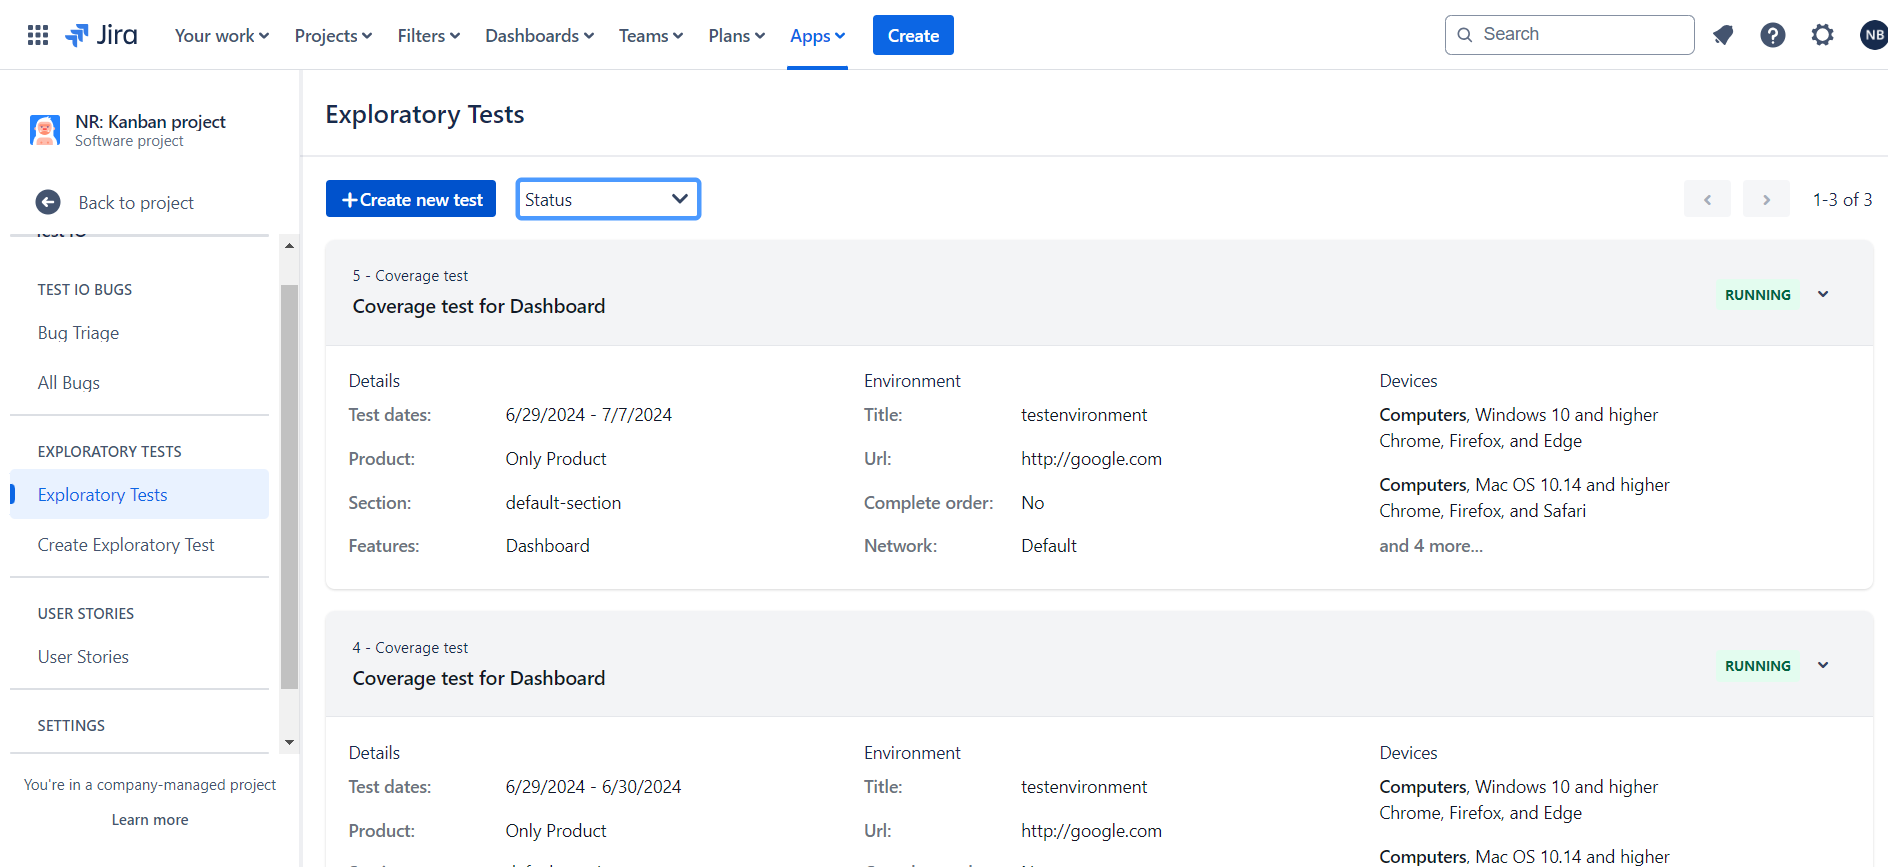
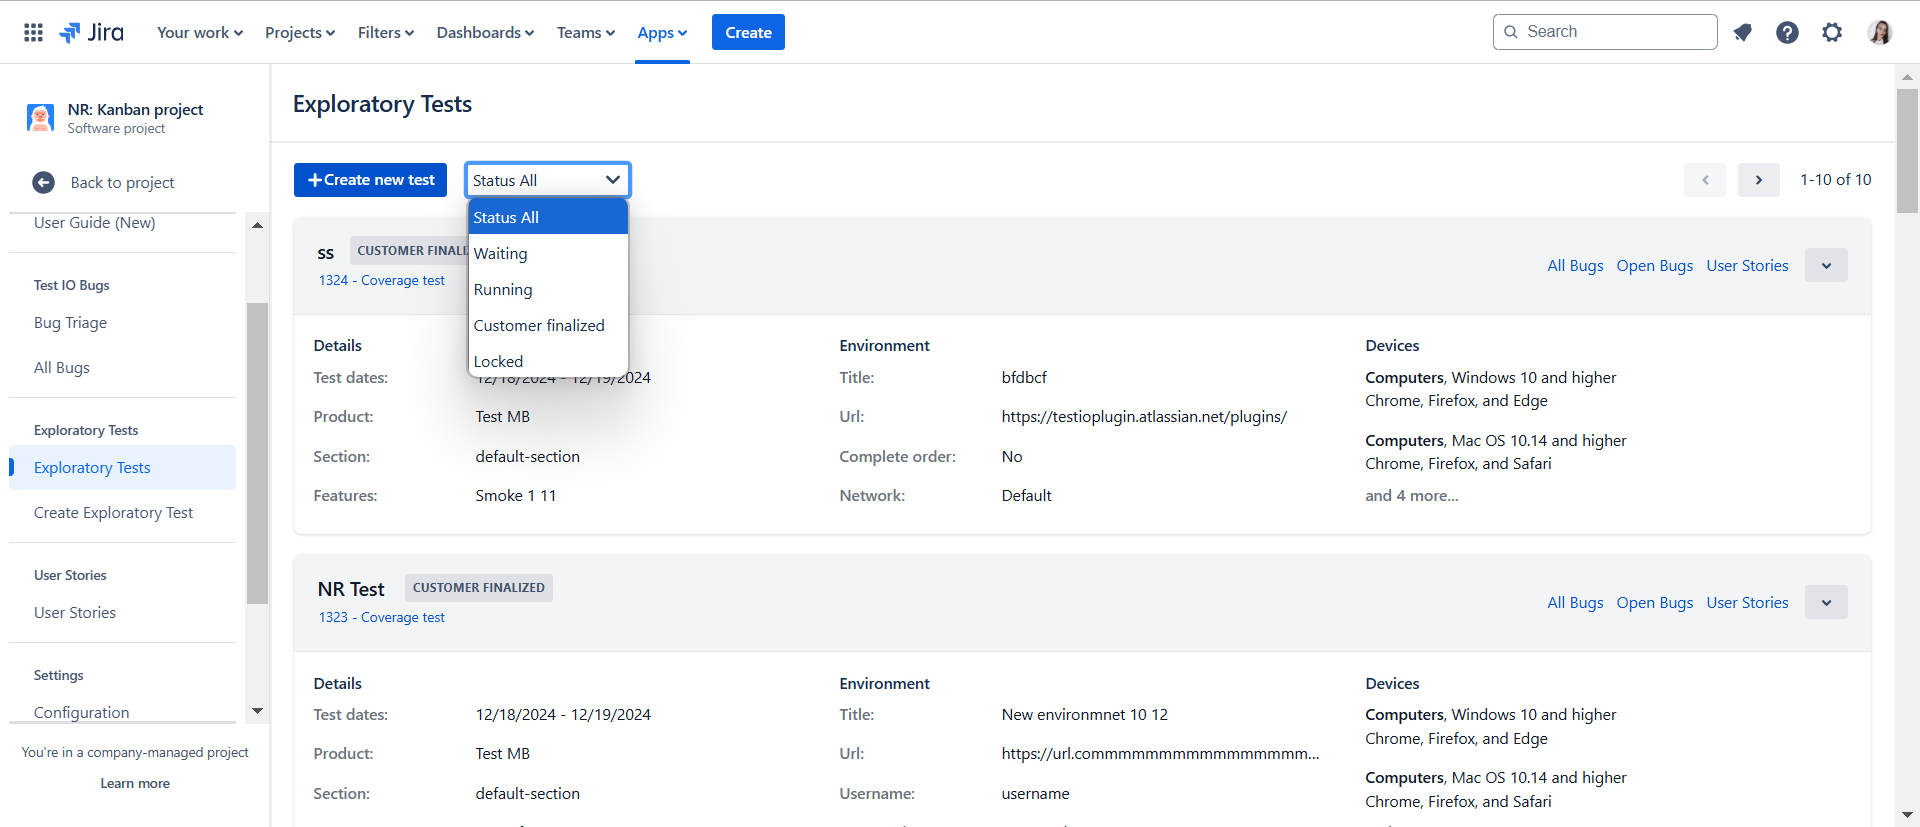
Updates in Exploratory Test Types page

diff --git a/src/pages/docs/jira_cloud/test_bug_types.md b/src/pages/docs/jira_cloud/test_bug_types.md
@@ -5,7 +5,7 @@ description: Learn about Test IO exploratory tests and bug types.
 
 ## Exploratory Tests in Jira Plugin
 
-Test IO exploratory tests, created on the Jira platform or the Test IO platform, can be seamlessly viewed through the Jira Cloud Plugin. This integration allows users to access and monitor tests with various statuses, including **Customer Finalized**, **Waiting** and **Running** directly from Jira.
+Test IO exploratory tests, created on the Jira platform or the Test IO platform, can be seamlessly viewed through the Jira Cloud Plugin. This integration allows users to access and monitor tests with various statuses, including **Customer Finalized**, **Waiting**, **Locked** and **Running** directly from Jira.
 
 Users can view comprehensive details of these tests, which include:
 
@@ -19,9 +19,31 @@ Users can view comprehensive details of these tests, which include:
 
 This detailed view enables tracking the progress and status of exploratory tests efficiently. By having all relevant information in one place, teams can better coordinate their efforts, ensuring that all aspects of the test are covered.
 
-Additionally, the page includes a convenient **filtering option to sort tests by their current status**. This feature enables users to quickly focus on tests that meet their specific status criteria.
+### Filtering and Navigation Options
+
+- **Filtering Tests**: The page includes a convenient filtering option to sort tests by their current status, enabling users to quickly focus on tests that meet their specific criteria.
 
 {% screenshot src="/assets/jira_cloud/exploratory_tests.png" caption="Test IO Exploratory Tests page" /%}
+
+- **Previewing Test Details**:
+  {% list type="circle" %}
+
+  - Click on the Test Cycle ID under the Test Title to navigate to the Test IO Platform for a detailed preview.
+    {% screenshot src="/assets/jira_cloud/exploratory_2.png" caption="Test Cycle ID for navigation to Test IO Platform" /%}
+
+  - Click on the **“Test Title”** button at the top left corner of the test card to navigate to a dedicated page where you can see all the details of the test directly within Jira.
+
+    {% screenshot src="/assets/jira_cloud/exploratory_3.png" caption="View Test details in Jira" /%}
+
+  - Click on the new **“All Bugs”** button on Exploratory test card to navigate to the All Bugs page where "Test ID" filter is prefilled with the selected Test IO Test cycle ID.
+
+  - Click on the new **“Open Bugs”** button on Exploratory test card to navigate to the Bug triage (Received Bugs) page where "Test cycle" filter is prefilled with the selected Test IO Test cycle details.
+
+  - Click on the new **“User Stories”** button on Exploratory test card to navigate to the User Stories page where the page is displayed in Test preview, and "Test cycle" filter is prefilled with the selected Test IO Test cycle details.
+
+    {% screenshot src="/assets/jira_cloud/exploratory_4.png" caption="View Test details in Jira" /%}
+
+  {% /list %}
 
 ## Exploratory Test types
 
